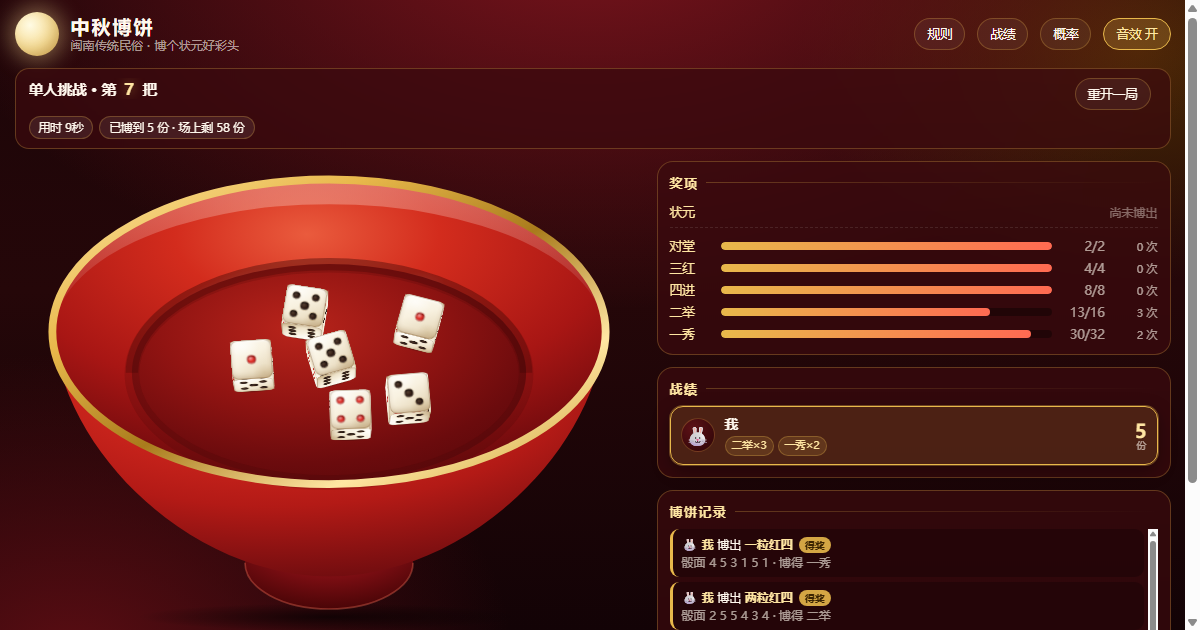
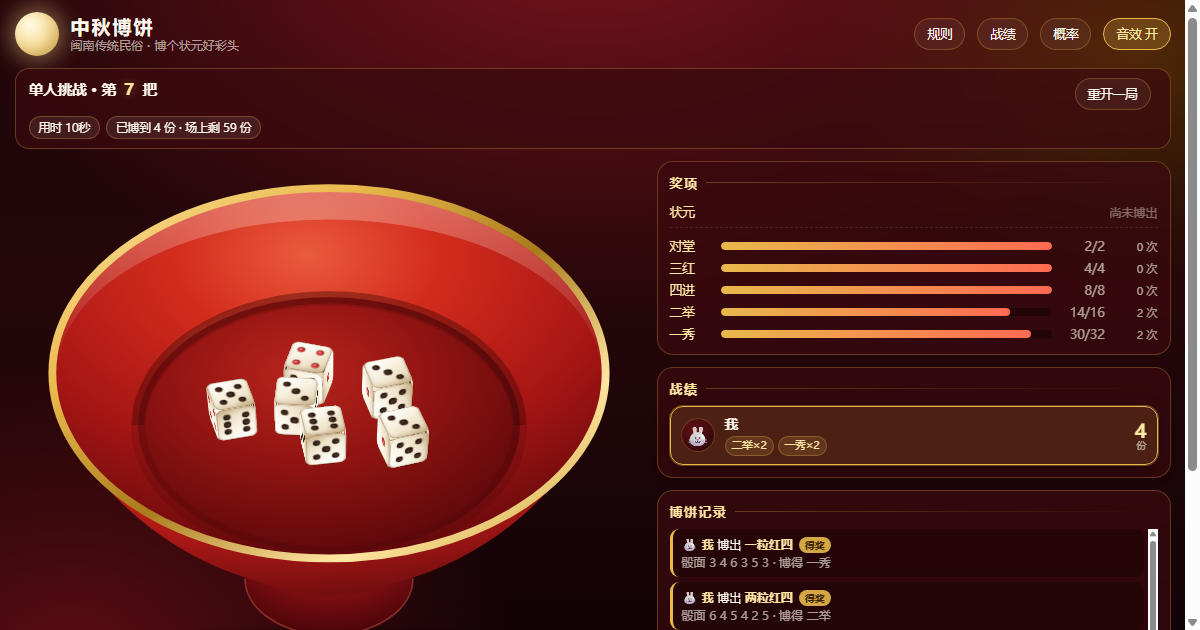
骰子改成真正的立方体（面更清晰）；碗与骰子统一到同一个相机视角，并把内腔挖深
问题与真因
1) "骰子的面没那么清晰"
   骰子平面只后仰 18°，立方体的侧脸被透视压成 sin18° = 0.31 的高——
   而侧脸上本来也有点数，被压扁后渲染成一道道的"横条纹"，
   看着像切开的千层糕，而不是骰子。放大到 3~4 倍看得很清楚。
   修法：把倾角提上去。倾角越大，侧脸越高、点数越看得清，
   但反正不能太大（正面的点数会被压扁）。逐个渲染对比 18/26/32/45/56.6° 后定档。

2) "碗调成和骰子一样的倾角"
   实测两边本来差近一倍：碗口椭圆比例 0.5506（等效仰角 33.4°），
   骰子平面压缩系数 0.9495（等效仰角 72°）—— 两套透视，所以看着别扭。
   ⚠ 关键换算：碗口椭圆比例 = sin(仰角)，骰子平面压缩系数 = cos(倾角)，
      所以同一个相机要求【倾角 = 90° - 仰角】。（45° 恰好自洽：90-45 = 45。）
   定档：碗仰角 42° + 骰子倾角 48°。两边都往中间走，
   而不是把碗压到 72°（那样碗会变成一只圆盘，圈足整个被碗口挡住，已经不是碗了）。

3) 碗 "内部深一点、整体不要那么高"
   整只碗按同一个相机重算（单一真源）：
   - 碗口 rx 保持 494 → 宽度不变（"大小不要怎么变化"）
   - 碗底半径 0.7126R → 0.69R，内壁那一圈更宽 → 看着更深
   - 碗底深度由"碗底近缘不能越过碗口近缘"反解，仰角越高允许越深 →
     3D 深度 0.1771R → 0.2340R（+32%），投影下沉 73 → 92.6（+27%）
   - 碗口近缘以下的可见碗身 16.7% → 13.7% 碗宽 → 整体不那么高
   - 圈足月牙露出比例与原来一致（0.702 倍圈足半高），仍是"只露前缘月牙"
   - viewBox 840 → 880（碗占的纵向多了 4.8%）
   全部数字由 gen_bowl.js 从 (仰角, 碗口半径, 3D 比例) 推出来，没有手写常量。

顺带
- 断言 249 → 251，新增两条：
  · 【骰子平面与碗口是同一个视角】——直接量"平面压缩系数 == 碗口椭圆比例"，
    把"两套透视"这个 bug 钉死（反证：骰子退回 18° → 0.951 vs 0.707，报警）
  · 【碗有实实在在的深度】——把原来"碗身在碗口近缘以下 ≥0.15 倍碗宽"换成
    与仰角无关的"剪影高 ≥1.10 倍碗口椭圆高"（扁盘子恒为 1.0）。
    旧判据的阈值绑死在 33.4° 上，仰角一改就误报"碗成了扁盘"。
- 碗身/碗底/圈足/高光/亮釉带的注释全部同步了新的数字。

已在 1280 / 520 / 420 / 360 四档视口跑完 8 组探针共 251 项断言，全绿、0 运行时错误。

diff --git a/index.html b/index.html
@@ -107,19 +107,26 @@ button{font-family:inherit;cursor:pointer;border:0;background:none;color:inherit
 /* 完整碗型（照 R.jpg 建的模）：碗口椭圆 + 外壁 + 圈足，整只碗用一只内联 SVG 画。
    SVG viewBox = 1000×840，下面所有 HTML 层的百分比都直接由 viewBox 坐标换算，保证严格对齐。
    比例取自照片：碗口高/宽 ≈ 0.49（抬高视角后取 0.55）、碗口下方碗身 ≈ 0.22 碗宽、整碗高 ≈ 0.76 碗宽。 */
-.bowl-wrap{position:relative;width:100%;aspect-ratio:1000/840;max-width:560px;margin:0 auto;
+.bowl-wrap{position:relative;width:100%;aspect-ratio:1000/880;max-width:560px;margin:0 auto;
   perspective:1200px;perspective-origin:50% 36%}
 /* 碗在桌上的落影（紧贴碗底，别让碗看着悬空） */
 .bowl-wrap::after{content:"";position:absolute;left:16%;right:16%;bottom:0;height:6%;z-index:0;
   border-radius:50%;
   background:radial-gradient(closest-side,rgba(0,0,0,.62),rgba(0,0,0,0));pointer-events:none}
 .bowl-svg{position:absolute;inset:0;width:100%;height:100%;display:block;overflow:visible;z-index:1}
-/* 骰子落区 = SVG 里碗底椭圆的外接矩形（cx500 cy378 rx352 ry194，viewBox 1000×840）
-   → 左/右 (500-352)/1000 = 14.8%，上 184/840 = 21.9%，下 (840-572)/840 = 31.9% */
-.bowl-inner{position:absolute;left:14.8%;right:14.8%;top:21.9%;bottom:31.9%;z-index:3}
-/* 骰子落区平面：微微后仰，能看到骰子一点厚度，正面点数仍基本正对镜头（保可读） */
+/* 骰子落区 = SVG 里碗底椭圆的外接矩形（cx500 cy471.59 rx340.86 ry228.08，viewBox 1000×880）
+   → 左/右 15.91%，上 27.67%，下 20.49%
+   ⚠ 改了碗底椭圆的任何一个数，这三个百分比都要跟着重算（有断言查"落区与碗底同心"）。 */
+.bowl-inner{position:absolute;left:15.91%;right:15.91%;top:27.67%;bottom:20.49%;z-index:3}
+/* 骰子落区平面：倾角必须与碗【同一个相机】—— 见下面"单一相机"的换算。
+   ⚠ 骰子平面的倾角 ≠ 碗的仰角：碗口椭圆比例 = sin(仰角)，
+   而平面的纵向压缩系数 = cos(倾角)，相等要求 倾角 = 90° - 仰角。
+   本档：碗仰角 42° → 骰子倾角 48°（= 90-42）。
+   这样一侧是点数值面（被压扁 cosθ=0.669，仍看得清），
+   一侧是完整的侧脸（sinθ=0.743）——
+   而不是被压成几像素的"横条纹"（曾用 18°，用户报"骰子面不清晰"）。 */
 .dice-field{position:absolute;inset:0;perspective:1500px;transform-style:preserve-3d;
-  transform:rotateX(18deg);
+  transform:rotateX(48deg);
   transform-origin:50% 50%}
 .die-wrap{position:absolute;left:50%;top:50%;width:var(--die);height:var(--die);margin:0;
   transform-style:preserve-3d;will-change:transform}   /* 位置与旋转都交给 WAAPI，不再用 CSS transition */
@@ -402,7 +409,7 @@ button{font-family:inherit;cursor:pointer;border:0;background:none;color:inherit
 @media (max-width:899px){
   #app{padding:10px 10px 22px}
   .layout{grid-template-columns:1fr}
-  .bowl-wrap{aspect-ratio:1000/840;max-width:none}
+  .bowl-wrap{aspect-ratio:1000/880;max-width:none}
   .log{max-height:170px}
   .players{display:grid;grid-template-columns:1fr 1fr;gap:7px}
   .pcard{padding:7px 8px}
@@ -510,7 +517,7 @@ html:not(.booted) #view-table,html:not(.booted) #fx{display:none !important}
       <div class="stage" data-page-node-id="rk6bBL2C3C1l2fYzewU8dF">
         <div class="bowl-wrap" id="bowl-wrap" data-page-node-id="mhDMYkXGAHh0QLIbkuCWf9">
           <!-- 完整碗型：碗口椭圆(494×272 ≈ 1:0.55) + 外壁 + 圈足 + 碗底，整只碗用内联 SVG 画 -->
-          <svg class="bowl-svg" id="bowl-svg" viewBox="0 0 1000 840" preserveAspectRatio="xMidYMid meet" aria-hidden="true">
+          <svg class="bowl-svg" id="bowl-svg" viewBox="0 0 1000 880" preserveAspectRatio="xMidYMid meet" aria-hidden="true">
             <defs>
               <radialGradient id="gOuter" cx="40%" cy="16%" r="92%">
                 <stop offset="0%" stop-color="#ee5a38"/>
@@ -559,17 +566,17 @@ html:not(.booted) #view-table,html:not(.booted) #fx{display:none !important}
               </radialGradient>
             </defs>
             <!-- 圈足：必须画在碗身【之前】—— 这样它的上半圈被碗身盖住，只露出前缘一道月牙。
-                 而且椭圆比例 82.59/150 = 0.5506，与碗口(272/494)、碗底(194/352) 是同一个视角。 -->
-            <ellipse id="bowl-foot-el" cx="500" cy="717.41" rx="150" ry="82.59" fill="url(#gFoot)"/>
-            <path d="M350,717.41 A150,82.59 0 0 0 650,717.41" fill="none" stroke="#ef6a52" stroke-width="3" opacity=".40"/>
-            <!-- 碗身外壁：底曲线上抬到中心 y=742，圈足底在 800 —— 于是只露出前缘月牙 -->
+                 椭圆比例 0.67，与碗口、碗底严格同一个视角（见下面的"单一相机"）。 -->
+            <ellipse id="bowl-foot-el" cx="500" cy="746.11" rx="149.98" ry="100.36" fill="url(#gFoot)"/>
+            <path d="M350,746.11 A149.98,100.36 0 0 0 650,746.11" fill="none" stroke="#ef6a52" stroke-width="3" opacity=".40"/>
+            <!-- 碗身外壁：底曲线中心 y=776.02，圈足底在 846.47 —— 于是只露出前缘月牙 -->
             <path id="bowl-body-path"
-              d="M6,305 C28,500 195,668 372,722 Q500,762 628,722 C805,668 972,500 994,305 Z"
+              d="M6,379 C28,552.58 195,702.13 372,750.2 Q500,801.84 628,750.2 C805,702.13 972,552.58 994,379 Z"
               fill="url(#gOuter)"/>
             <!-- 碗口内腔（内壁） -->
-            <ellipse cx="500" cy="305" rx="494" ry="272" fill="url(#gInner)"/>
+            <ellipse cx="500" cy="379" rx="494" ry="330.55" fill="url(#gInner)"/>
             <!-- 远端内壁的亮釉带 -->
-            <path d="M10,305 A490,268 0 0 1 990,305 A430,200 0 0 0 10,305 Z"
+            <path d="M14,379 A486,324.55 0 0 1 986,379 A429.98,243.05 0 0 0 14,379 Z"
               fill="url(#gGloss)" opacity=".5"/>
             <!-- 釉面高光（和骰子同一个白）：只画在【远端】内壁。
                  光从上方偏前打来 —— 远端内壁的法线朝上、偏向观察者，才是真正反光的地方；
@@ -577,14 +584,14 @@ html:not(.booted) #view-table,html:not(.booted) #fx{display:none !important}
                  这里曾经在近侧左下方也糊了一块（cx262 cy486, "外壁一处"），
                  就是用户报的"前面的碗边左侧有一些奇怪的灯光，不符合现实透视"。
                  另外 fill 必须用 gSheen（径向）而不是 gGloss（线性），否则椭圆边缘是硬的。 -->
-            <ellipse cx="336" cy="268" rx="148" ry="66" fill="url(#gSheen)" opacity=".42" transform="rotate(-19 336 268)"/>
-            <ellipse cx="632" cy="238" rx="78" ry="36" fill="url(#gSheen)" opacity=".28" transform="rotate(-15 632 238)"/>
+            <ellipse cx="336" cy="346.06" rx="148" ry="80.23" fill="url(#gSheen)" opacity=".42" transform="rotate(-19 336 346.06)"/>
+            <ellipse cx="632" cy="319.36" rx="78" ry="43.76" fill="url(#gSheen)" opacity=".28" transform="rotate(-15 632 319.36)"/>
             <!-- 碗底（骰子落区）：软边过渡到近侧内壁，一眼看出碗内比碗外深 -->
-            <ellipse id="bowl-floor-el" cx="500" cy="378" rx="352" ry="194" fill="url(#gFloor)"/>
-            <ellipse cx="500" cy="380" rx="352" ry="194" fill="none" stroke="#3a0406" stroke-width="26" opacity=".16"/>
-            <path d="M148,378 A352,194 0 0 1 852,378" fill="none" stroke="#2e0305" stroke-width="22" opacity=".26"/>
+            <ellipse id="bowl-floor-el" cx="500" cy="471.59" rx="340.86" ry="228.08" fill="url(#gFloor)"/>
+            <ellipse cx="500" cy="473.59" rx="340.86" ry="228.08" fill="none" stroke="#3a0406" stroke-width="26" opacity=".16"/>
+            <path d="M159.14,471.59 A340.86,228.08 0 0 1 840.86,471.59" fill="none" stroke="#2e0305" stroke-width="22" opacity=".26"/>
             <!-- 碗口金边 -->
-            <ellipse id="bowl-rim-el" cx="500" cy="305" rx="494" ry="272" fill="none"
+            <ellipse id="bowl-rim-el" cx="500" cy="379" rx="494" ry="330.55" fill="none"
               stroke="url(#gGold)" stroke-width="14"/>
           </svg>
           <div class="bowl-inner" id="bowl-inner" data-page-node-id="Ps9GtvwU84fv88Q0QbCieA">
@@ -3113,14 +3120,36 @@ window.__game = {
     var rimCX = Number(rimEl.getAttribute('cx')), rimCY = Number(rimEl.getAttribute('cy'));
     var rimRX = Number(rimEl.getAttribute('rx')), rimRY = Number(rimEl.getAttribute('ry'));
     var rimRatio = rimRY / rimRX;
-    ok('碗口椭圆高/宽 ∈ [0.50,0.62]（照图抬高一点，取 0.55）', rimRatio >= 0.50 && rimRatio <= 0.62, rimRatio.toFixed(3));
+    ok('碗口椭圆高/宽 ∈ [0.61,0.73]' +
+      '（相机仰角约 42°，与骰子平面同一个视角）',
+      rimRatio >= 0.61 && rimRatio <= 0.73, rimRatio.toFixed(3));
+    /* 骰子平面必须和碗【同一个相机】—— 用户报过"骰子看着挺清晰，但碗的倾角跟它不一样"。
+       判据：骰子平面的纵向压缩系数（视觉高 ÷ 布局高）应当等于碗口椭圆比例 ry/rx。
+       两者都是"水平面在这个相机下的投影比例"，本该严格相等；
+       之前骰子平面 18°(0.95) 与碗 33.4°(0.55) 差了近一倍，视觉上就是两套透视。 */
+    var fieldEl = document.getElementById('dice-field');
+    var fieldK = fieldEl.getBoundingClientRect().height / fieldEl.offsetHeight;
+    ok('骰子平面与碗口是同一个视角（平面压缩系数 == 碗口椭圆比例，偏差 <0.02）',
+      fieldEl.offsetHeight > 0 && Math.abs(fieldK - rimRatio) < 0.02,
+      '骰子平面 ' + fieldK.toFixed(3) + ' vs 碗口 ' + rimRatio.toFixed(3));
     var bodyBB = document.getElementById('bowl-body-path').getBBox();
     ok('SVG 确实渲染出来了（碗身有实际尺寸）', bodyBB.width > 10 && bodyBB.height > 10,
       bodyBB.width.toFixed(0) + '×' + bodyBB.height.toFixed(0));
     var bowlBottom = bodyBB.y + bodyBB.height;
-    var below = bowlBottom - (rimCY + rimRY);
-    ok('碗口下方有实实在在的碗身（≥0.15 倍碗宽；扁盘子几乎为 0）', below / bodyBB.width >= 0.15,
-      (below / bodyBB.width).toFixed(3));
+    /* 碗必须有实实在在的深度，不能是"扁盘子"。
+       判据用【碗最低点到碗口远缘的距离 ÷ 碗口椭圆高】：扁盘子恒为 1.0，真碗明显 >1。
+       以前这里用"碗身在碗口近缘以下的绝对高度 ≥0.15 倍碗宽"—— 那个阈值绑死在 33.4° 的
+       相机仰角上：仰角一高，碗口近缘就往下走，这个差值自然变小，于是会误报"碗成了扁盘"。
+       换成与仰角无关的比值判据才稳。 */
+    var footEl2 = document.getElementById('bowl-foot-el');
+    var footRY2 = Number(footEl2.getAttribute('ry'));
+    var bowlLowest = Math.max(bowlBottom, Number(footEl2.getAttribute('cy')) + footRY2);
+    var silhRatio = (bowlLowest - (rimCY - rimRY)) / (2 * rimRY);
+    ok('碗有实实在在的深度（剪影高 ≥1.10 倍碗口椭圆高；扁盘子恰好 = 1.0）',
+      silhRatio >= 1.10, silhRatio.toFixed(3));
+    ok('圈足在碗口近缘以下露得出来（碗不是一只平底碟）',
+      bowlLowest > rimCY + rimRY + 0.4 * footRY2,
+      '碗最低 y' + bowlLowest.toFixed(1) + ' vs 碗口近缘 y' + (rimCY + rimRY).toFixed(1));
     var overall = (bowlBottom - (rimCY - rimRY)) / (rimRX * 2);
     ok('整只碗的高/宽 ∈ [0.62,0.82]（扁碗型：既不是扁盘，也不是深桶）',
       overall >= 0.62 && overall <= 0.82, overall.toFixed(3));

diff --git a/README.md b/README.md
@@ -71,7 +71,7 @@ python -m http.server 8000
 - `?demo=N` —— 直接开一桌 4 人并先博 N 次
 - `?demo=N&solo=1` —— 直接进单人挑战
 - `&open=rules|hist|stat|result` —— 直接打开对应弹层
-- `?selftest=exhaustive|flow|steal|input|rules|dice|solo|quota` —— 自检探针（8 组共 249 项断言）
+- `?selftest=exhaustive|flow|steal|input|rules|dice|solo|quota` —— 自检探针（8 组共 251 项断言）
 
 ---
 
